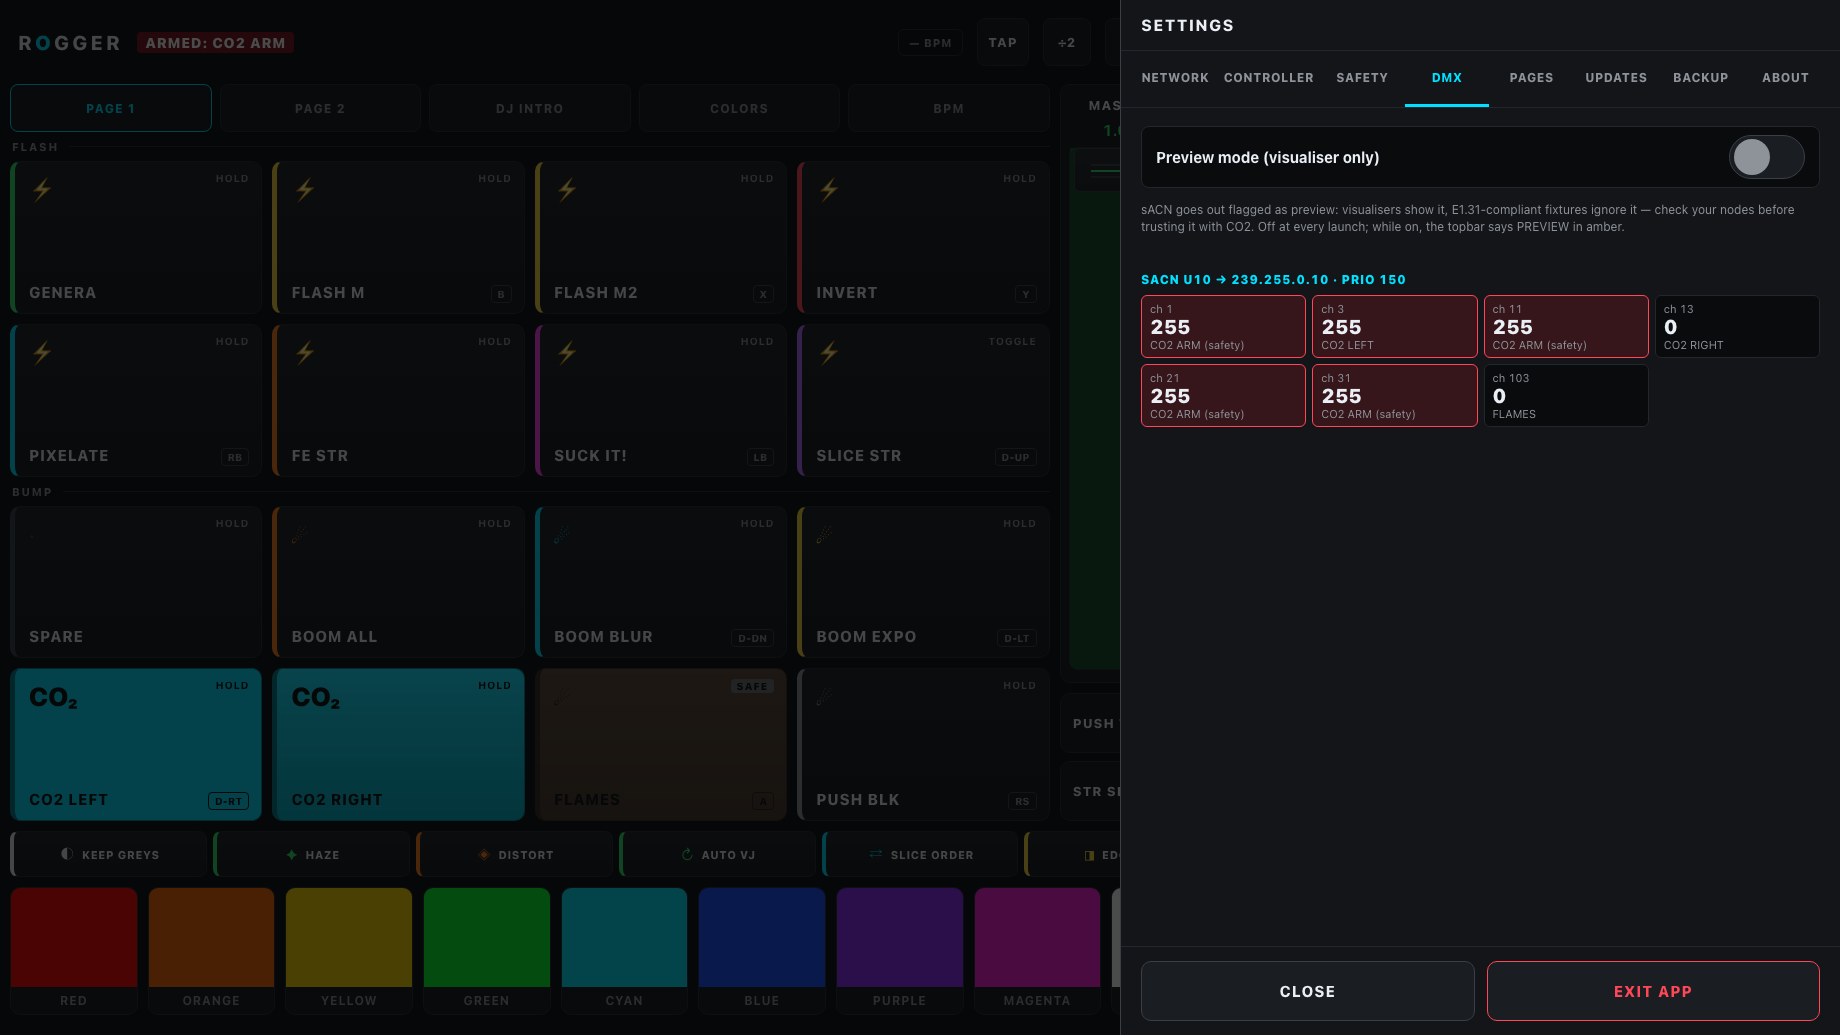
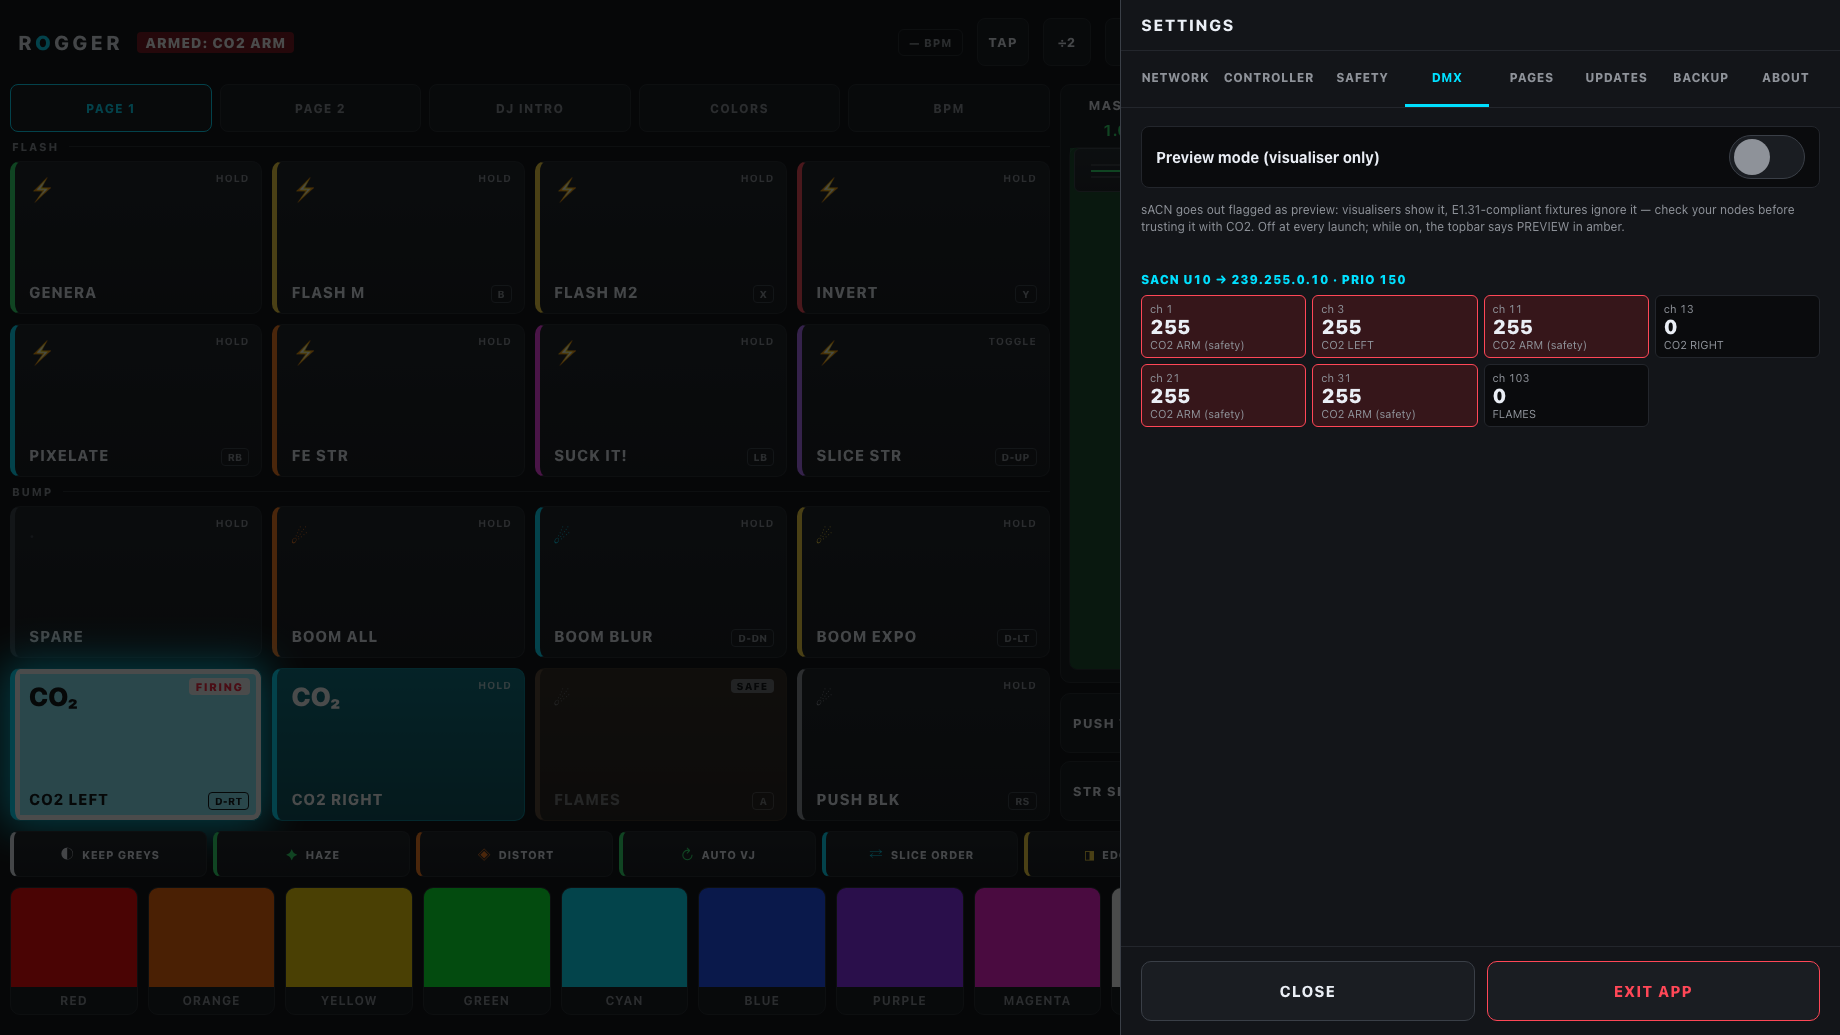
release 2.2.23: an active CO2 button is impossible to miss
Full-background buttons rest dimmed; pressed or latched they go full colour,
strobe against white with a thick white ring and glow, and a sACN button
shows a blinking FIRING tag. README screenshots regenerated.

Changed region(s): [[0.0, 0.6184, 0.3098, 0.8039]]

diff --git a/src/renderer/css/components.css b/src/renderer/css/components.css
@@ -227,28 +227,50 @@
 }
 .fx-btn.flashing { animation: fx-flash 240ms linear infinite; }
 
-/* Full background: special buttons (CO2, sparks). Dark text on the colour;
-   pressed / latched adds a white ring and glow so the state stays obvious. */
+/* Full background: special buttons (CO2, sparks). At rest a dimmed fill with
+   white text — stands out without glowing. Active (pressed / latched) goes to
+   the full colour, strobes against white with a thick white ring, and a DMX
+   button shows a blinking FIRING tag: nobody should miss that a jet is open. */
 .fx-btn.fx-btn--filled {
   background: linear-gradient(180deg,
-    color-mix(in srgb, var(--fx-color, var(--accent)) 92%, white),
-    color-mix(in srgb, var(--fx-color, var(--accent)) 78%, black));
-  border-color: color-mix(in srgb, var(--fx-color, var(--accent)) 60%, black);
-  border-left-color: color-mix(in srgb, var(--fx-color, var(--accent)) 55%, black);
+    color-mix(in srgb, var(--fx-color, var(--accent)) 46%, #0b0d10),
+    color-mix(in srgb, var(--fx-color, var(--accent)) 30%, #0b0d10));
+  border-color: color-mix(in srgb, var(--fx-color, var(--accent)) 55%, #0b0d10);
+  border-left-color: var(--fx-color, var(--accent));
 }
 .fx-btn.fx-btn--filled .fx-icon,
-.fx-btn.fx-btn--filled .fx-label,
-.fx-btn.fx-btn--filled .fx-mode { color: #0b0d10; }
+.fx-btn.fx-btn--filled .fx-label { color: #fff; }
+.fx-btn.fx-btn--filled .fx-mode { color: rgba(255, 255, 255, 0.7); }
 .fx-btn.fx-btn--filled .fx-icon { font-weight: 900; }
-.fx-btn.fx-btn--filled .fx-pad { color: #0b0d10; border-color: rgba(11, 13, 16, 0.55); }
+.fx-btn.fx-btn--filled .fx-pad { color: #fff; border-color: rgba(255, 255, 255, 0.5); }
 .fx-btn.fx-btn--filled.pressed,
 .fx-btn.fx-btn--filled.latched {
   background: var(--fx-color, var(--accent));
-  box-shadow: inset 0 0 0 3px #fff, 0 0 28px color-mix(in srgb, var(--fx-color, var(--accent)) 80%, transparent);
+  box-shadow: inset 0 0 0 5px #fff, 0 0 40px 6px color-mix(in srgb, var(--fx-color, var(--accent)) 85%, transparent);
+  animation: fx-live 0.45s steps(1) infinite;
 }
+@keyframes fx-live {
+  50% { background: color-mix(in srgb, var(--fx-color, var(--accent)) 45%, #fff); }
+}
+.fx-btn.fx-btn--filled.pressed .fx-icon,
+.fx-btn.fx-btn--filled.latched .fx-icon,
+.fx-btn.fx-btn--filled.pressed .fx-label,
+.fx-btn.fx-btn--filled.latched .fx-label,
+.fx-btn.fx-btn--filled.pressed .fx-mode,
+.fx-btn.fx-btn--filled.latched .fx-mode { color: #0b0d10; }
 .fx-btn.fx-btn--filled.pressed .fx-pad,
-.fx-btn.fx-btn--filled.latched .fx-pad,
-.fx-btn.fx-btn--filled.latched .fx-mode { color: #0b0d10; border-color: #0b0d10; }
+.fx-btn.fx-btn--filled.latched .fx-pad { color: #0b0d10; border-color: #0b0d10; }
+.fx-btn.fx-btn--dmx.pressed .fx-mode,
+.fx-btn.fx-btn--dmx.latched .fx-mode { display: none; }
+.fx-btn.fx-btn--dmx.pressed::after,
+.fx-btn.fx-btn--dmx.latched::after {
+  content: 'FIRING';
+  position: absolute; top: 9px; right: 11px;
+  font-size: 11px; font-weight: 900; letter-spacing: 0.12em;
+  color: #fff; background: #ff1f3d; border-radius: 4px; padding: 2px 7px;
+  animation: fx-firing 0.45s steps(1) infinite;
+}
+@keyframes fx-firing { 50% { color: #ff1f3d; background: #fff; } }
 
 /* ---- Faders ---- */
 .fader {

diff --git a/src/renderer/js/fx-grid.js b/src/renderer/js/fx-grid.js
@@ -125,6 +125,7 @@ export function renderFxGrid(el, { isEditMode, onEdit }) {
       const c = cfg();
       b.style.setProperty('--fx-color', c.color);
       b.classList.toggle('fx-btn--filled', !!c.fill);
+      b.classList.toggle('fx-btn--dmx', c.output === 'sacn');
       b.classList.toggle('fx-btn--blocked', safety.blocked(c));
       b.querySelector('.fx-icon').textContent = c.icon;
       b.querySelector('.fx-label').textContent = c.label;

diff --git a/docs/DEVELOPMENT.md b/docs/DEVELOPMENT.md
@@ -622,3 +622,9 @@ plain divs, so versions, the launch switch / Check now, Restart / Remove and the
 groups are now `.stack` (flex column, 14 px gap; empty ones hidden). The layout spec gained a TOUCHING
 check (stacked blocks closer than 3 px) and the Updates states available / staged+installed+rolled back /
 shell-required; `LAYOUT_EXTRA_CSS='.stack{display:block !important}'` reproduces the old bug.
+
+### Active full-background buttons — 2.2.23
+
+A filled button at rest is a dimmed fill with white text; pressed / latched it goes to the full colour,
+strobes against white (`fx-live`), gets a 5 px white ring and glow, and a sACN button (`.fx-btn--dmx`)
+shows a blinking FIRING tag in place of its mode. README screenshots: `node tools/readme-shots.mjs`.
